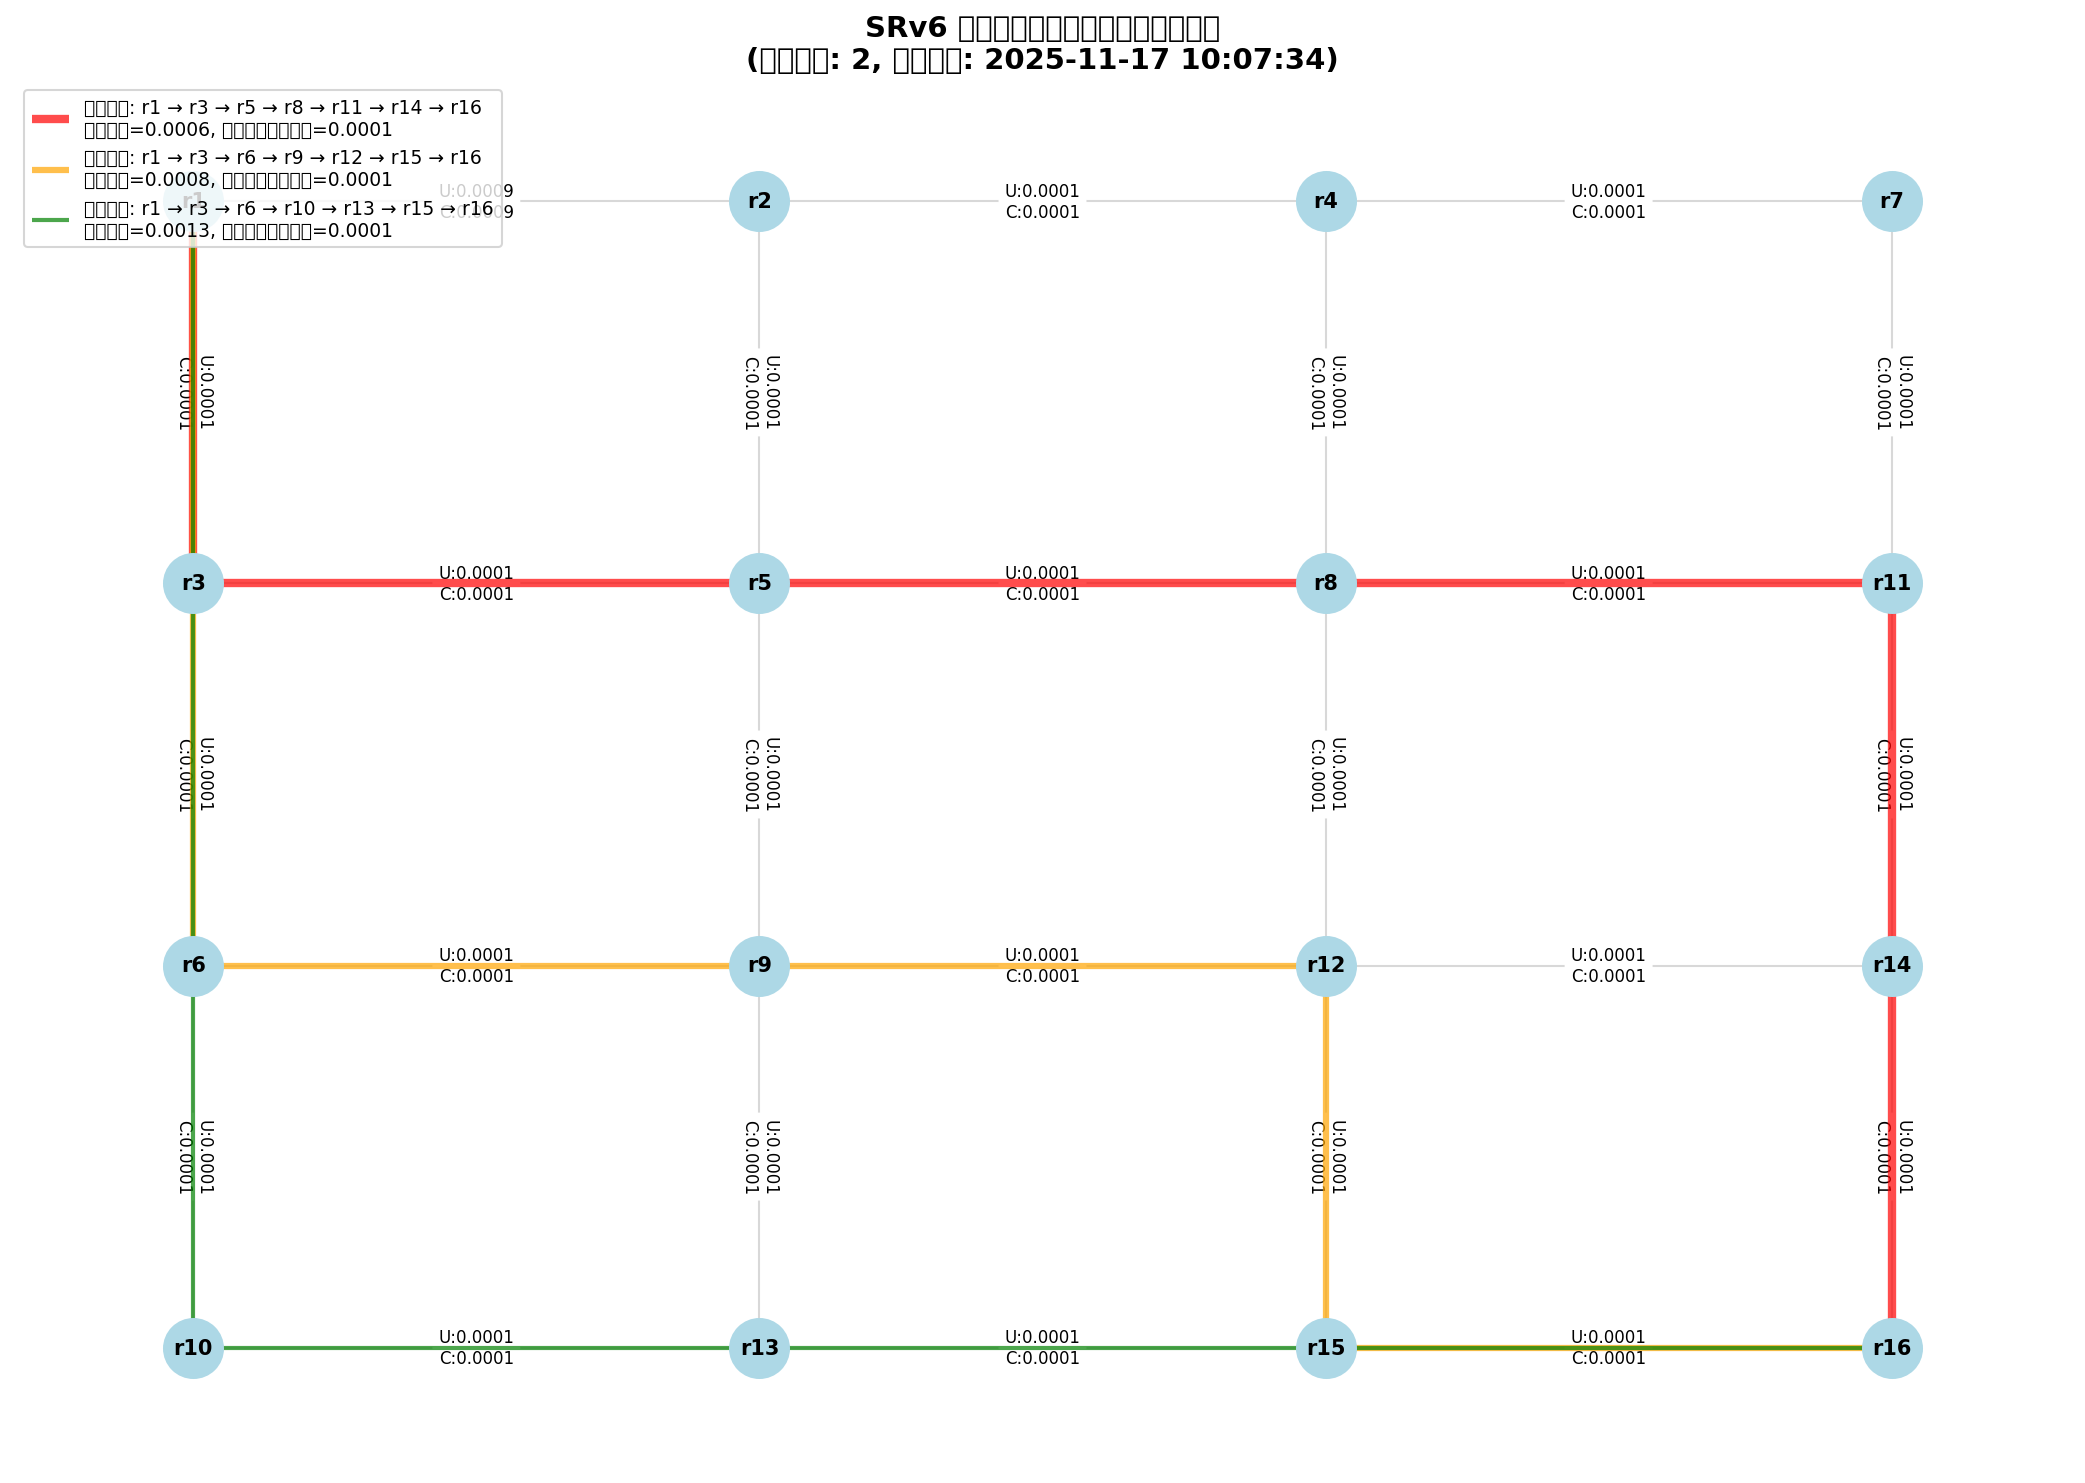
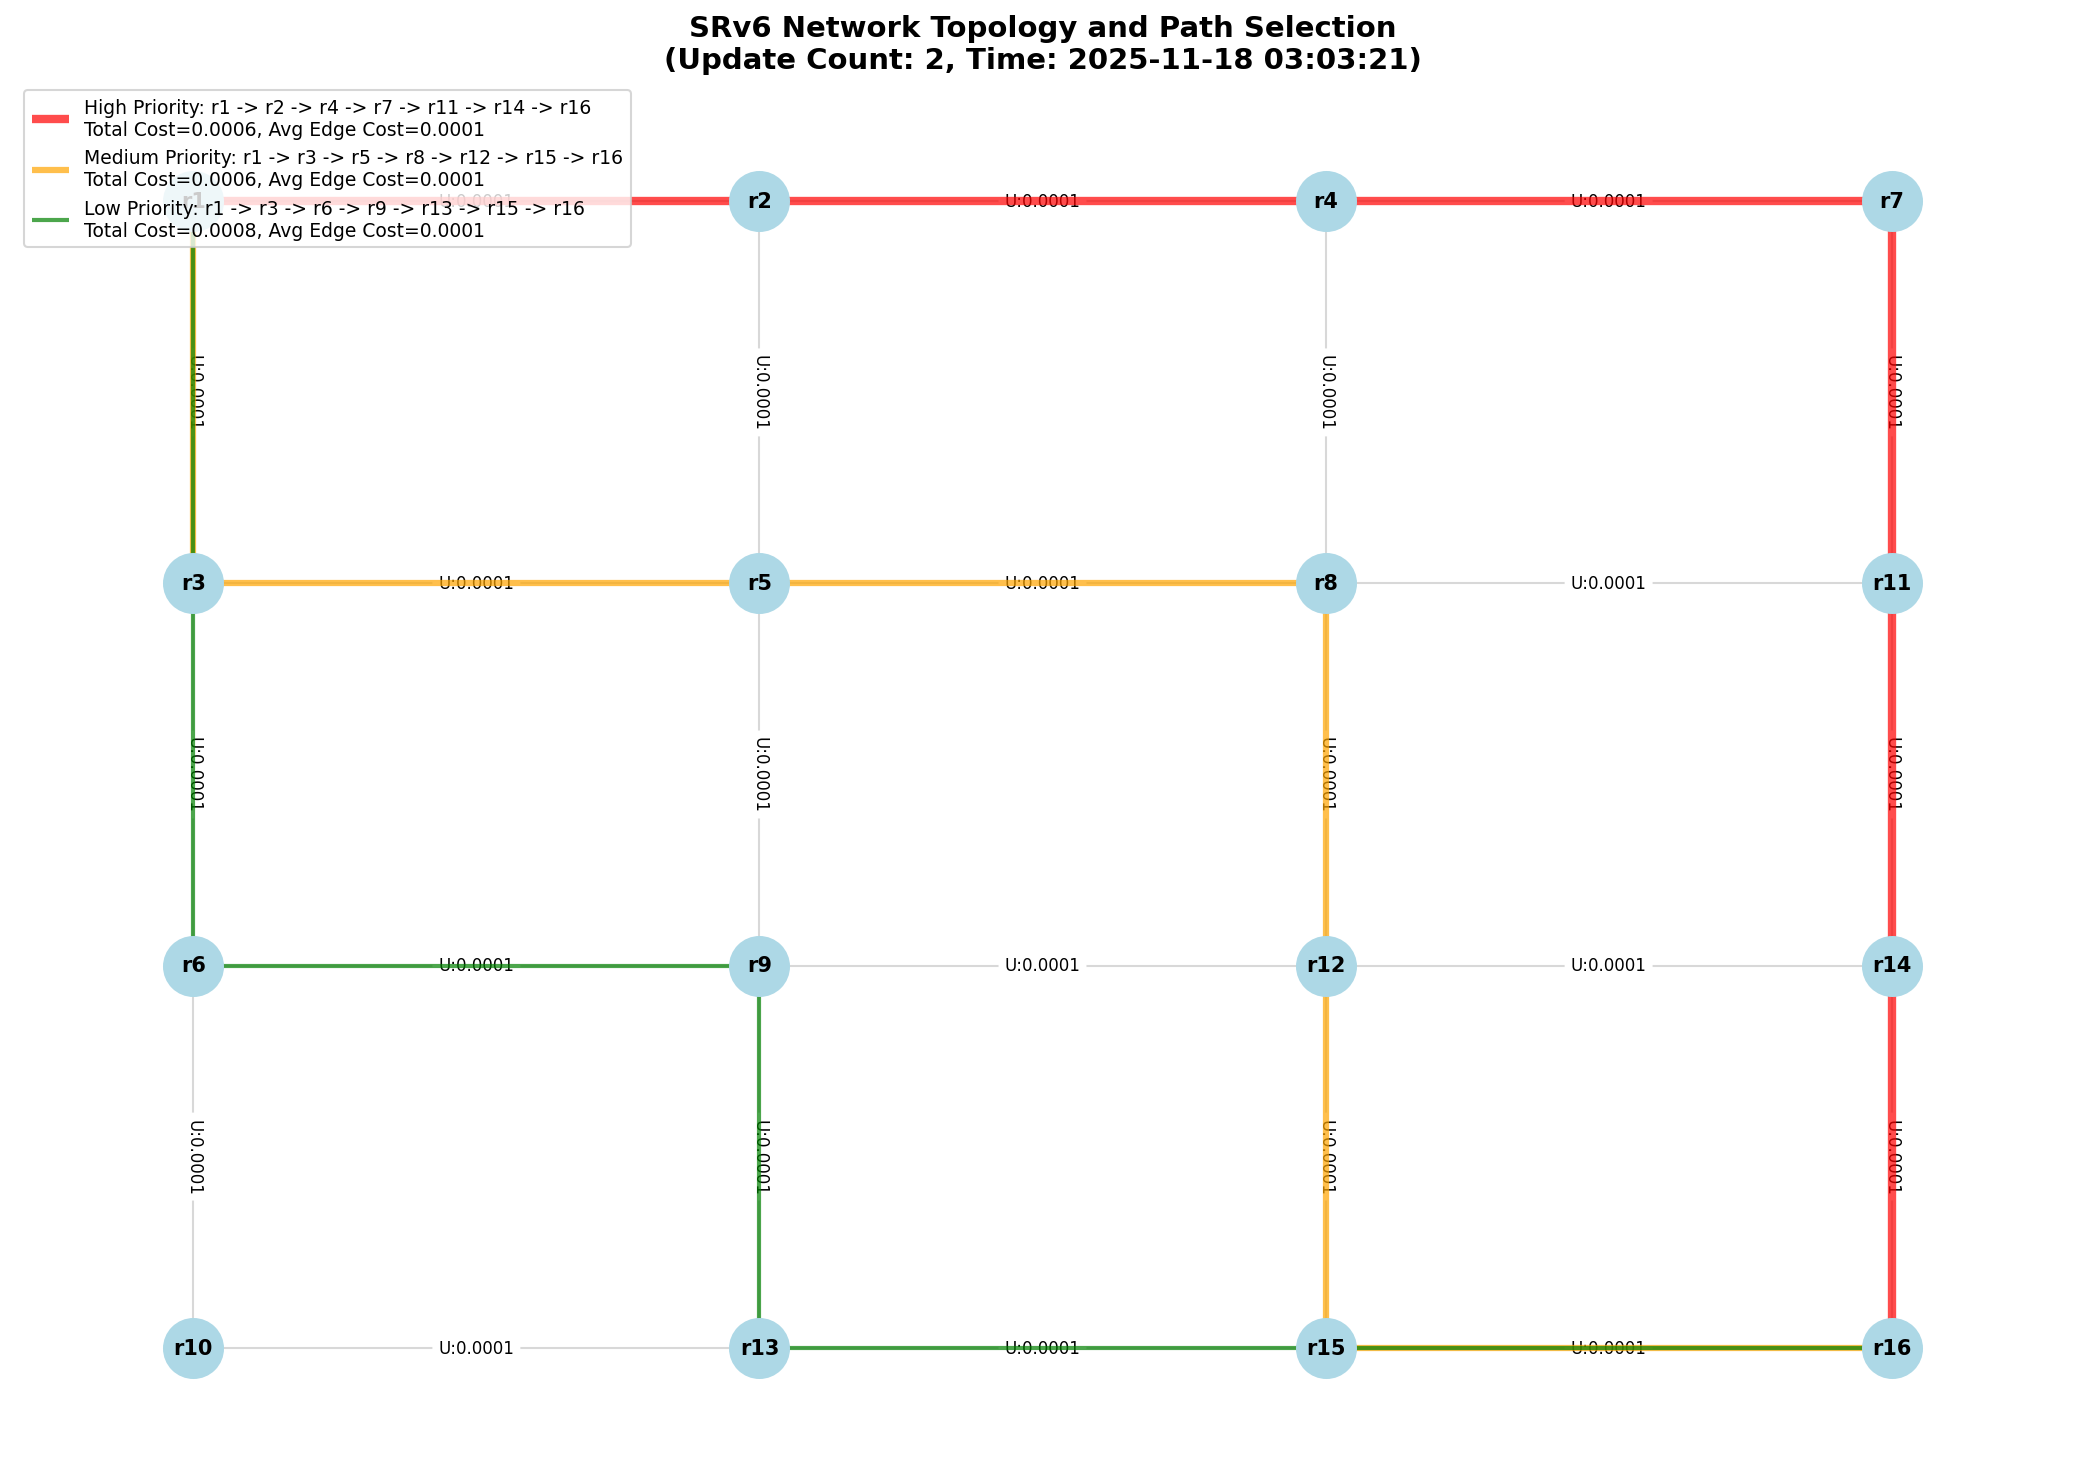
topology_latest

diff --git a/controller/srv6-path-orchestrator/phase3_realtime_multi_table.py b/controller/srv6-path-orchestrator/phase3_realtime_multi_table.py
@@ -555,12 +555,12 @@ class TopologyVisualizer:
             ax=self.ax
         )
         
-        # エッジの重み（利用率とコスト）をラベルとして表示
+        # エッジの重み（利用率）をラベルとして表示
         edge_labels = {}
         for u, v in self.graph.edges():
             weight = self.graph[u][v].get('weight', 0.0)
-            # 利用率とコストを表示
-            edge_labels[(u, v)] = f'U:{weight:.4f}\nC:{weight:.4f}'
+            # 利用率のみを表示
+            edge_labels[(u, v)] = f'U:{weight:.4f}'
         
         nx.draw_networkx_edge_labels(
             self.graph, self.pos,
@@ -572,7 +572,7 @@ class TopologyVisualizer:
         # 選択された経路を色分けして描画
         if paths:
             colors = ['red', 'orange', 'green']  # 高優先度、中優先度、低優先度
-            labels = ['高優先度', '中優先度', '低優先度']
+            labels = ['High Priority', 'Medium Priority', 'Low Priority']
             widths = [4, 3, 2]
             
             for idx, (path_nodes, cost) in enumerate(paths[:3]):
@@ -590,7 +590,7 @@ class TopologyVisualizer:
                     edge_costs.append(edge_cost)
                 
                 # 経路を太い色付き線で描画
-                path_str = " → ".join([f"r{n}" for n in path_nodes])
+                path_str = " -> ".join([f"r{n}" for n in path_nodes])
                 avg_edge_cost = sum(edge_costs) / len(edge_costs) if edge_costs else 0.0
                 nx.draw_networkx_edges(
                     self.graph, self.pos,
@@ -598,13 +598,13 @@ class TopologyVisualizer:
                     edge_color=colors[idx],
                     width=widths[idx],
                     alpha=0.7,
-                    label=f'{labels[idx]}: {path_str}\n総コスト={cost:.4f}, 平均エッジコスト={avg_edge_cost:.4f}',
+                    label=f'{labels[idx]}: {path_str}\nTotal Cost={cost:.4f}, Avg Edge Cost={avg_edge_cost:.4f}',
                     ax=self.ax
                 )
         
         # タイトルと凡例
         timestamp = time.strftime('%Y-%m-%d %H:%M:%S')
-        self.ax.set_title(f'SRv6 ネットワークトポロジと経路選択\n(更新回数: {update_count}, 更新時刻: {timestamp})', 
+        self.ax.set_title(f'SRv6 Network Topology and Path Selection\n(Update Count: {update_count}, Time: {timestamp})', 
                          fontsize=14, fontweight='bold')
         if paths:
             self.ax.legend(loc='upper left', fontsize=9)
